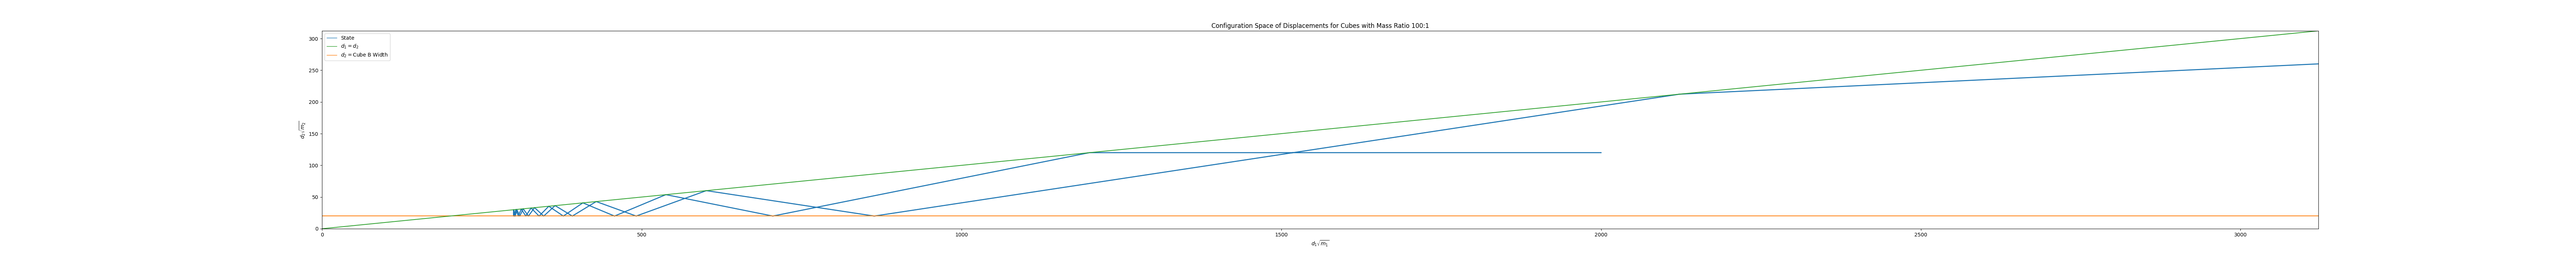
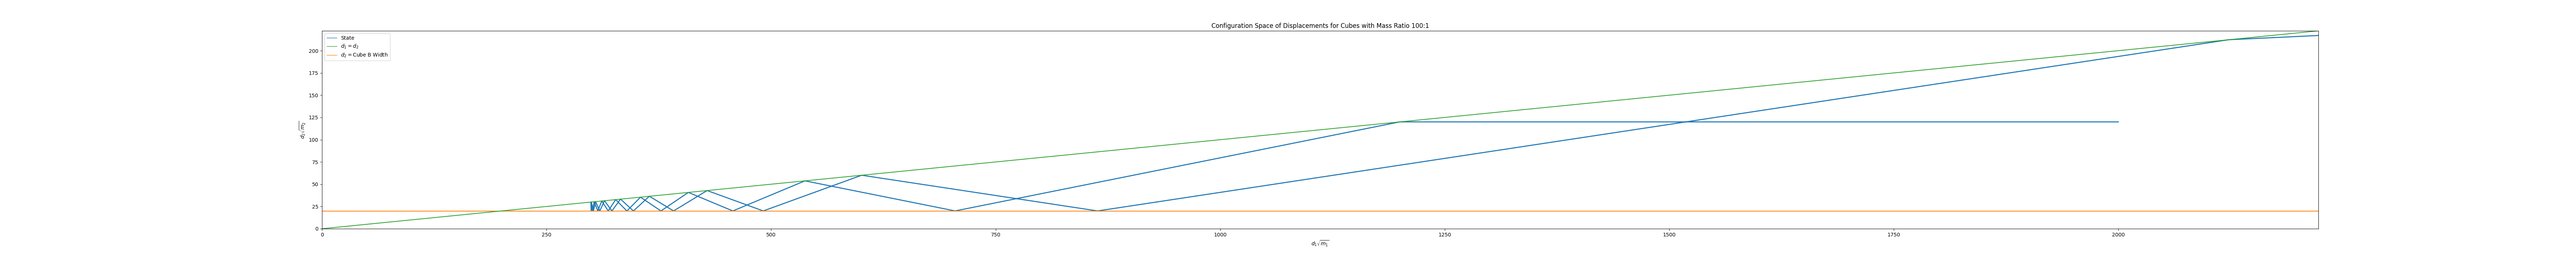
Changed post steps to 100.

diff --git a/main.py b/main.py
@@ -2,7 +2,7 @@ from graphers import graphVelocity, graphDisplacement
 
 opts = { 
   'timeStep': 0.001, 
-  'postSteps': 10000, 
+  'postSteps': 1000, 
   'mA': 100, 
   'mB': 1, 
   'vA': -10, 
